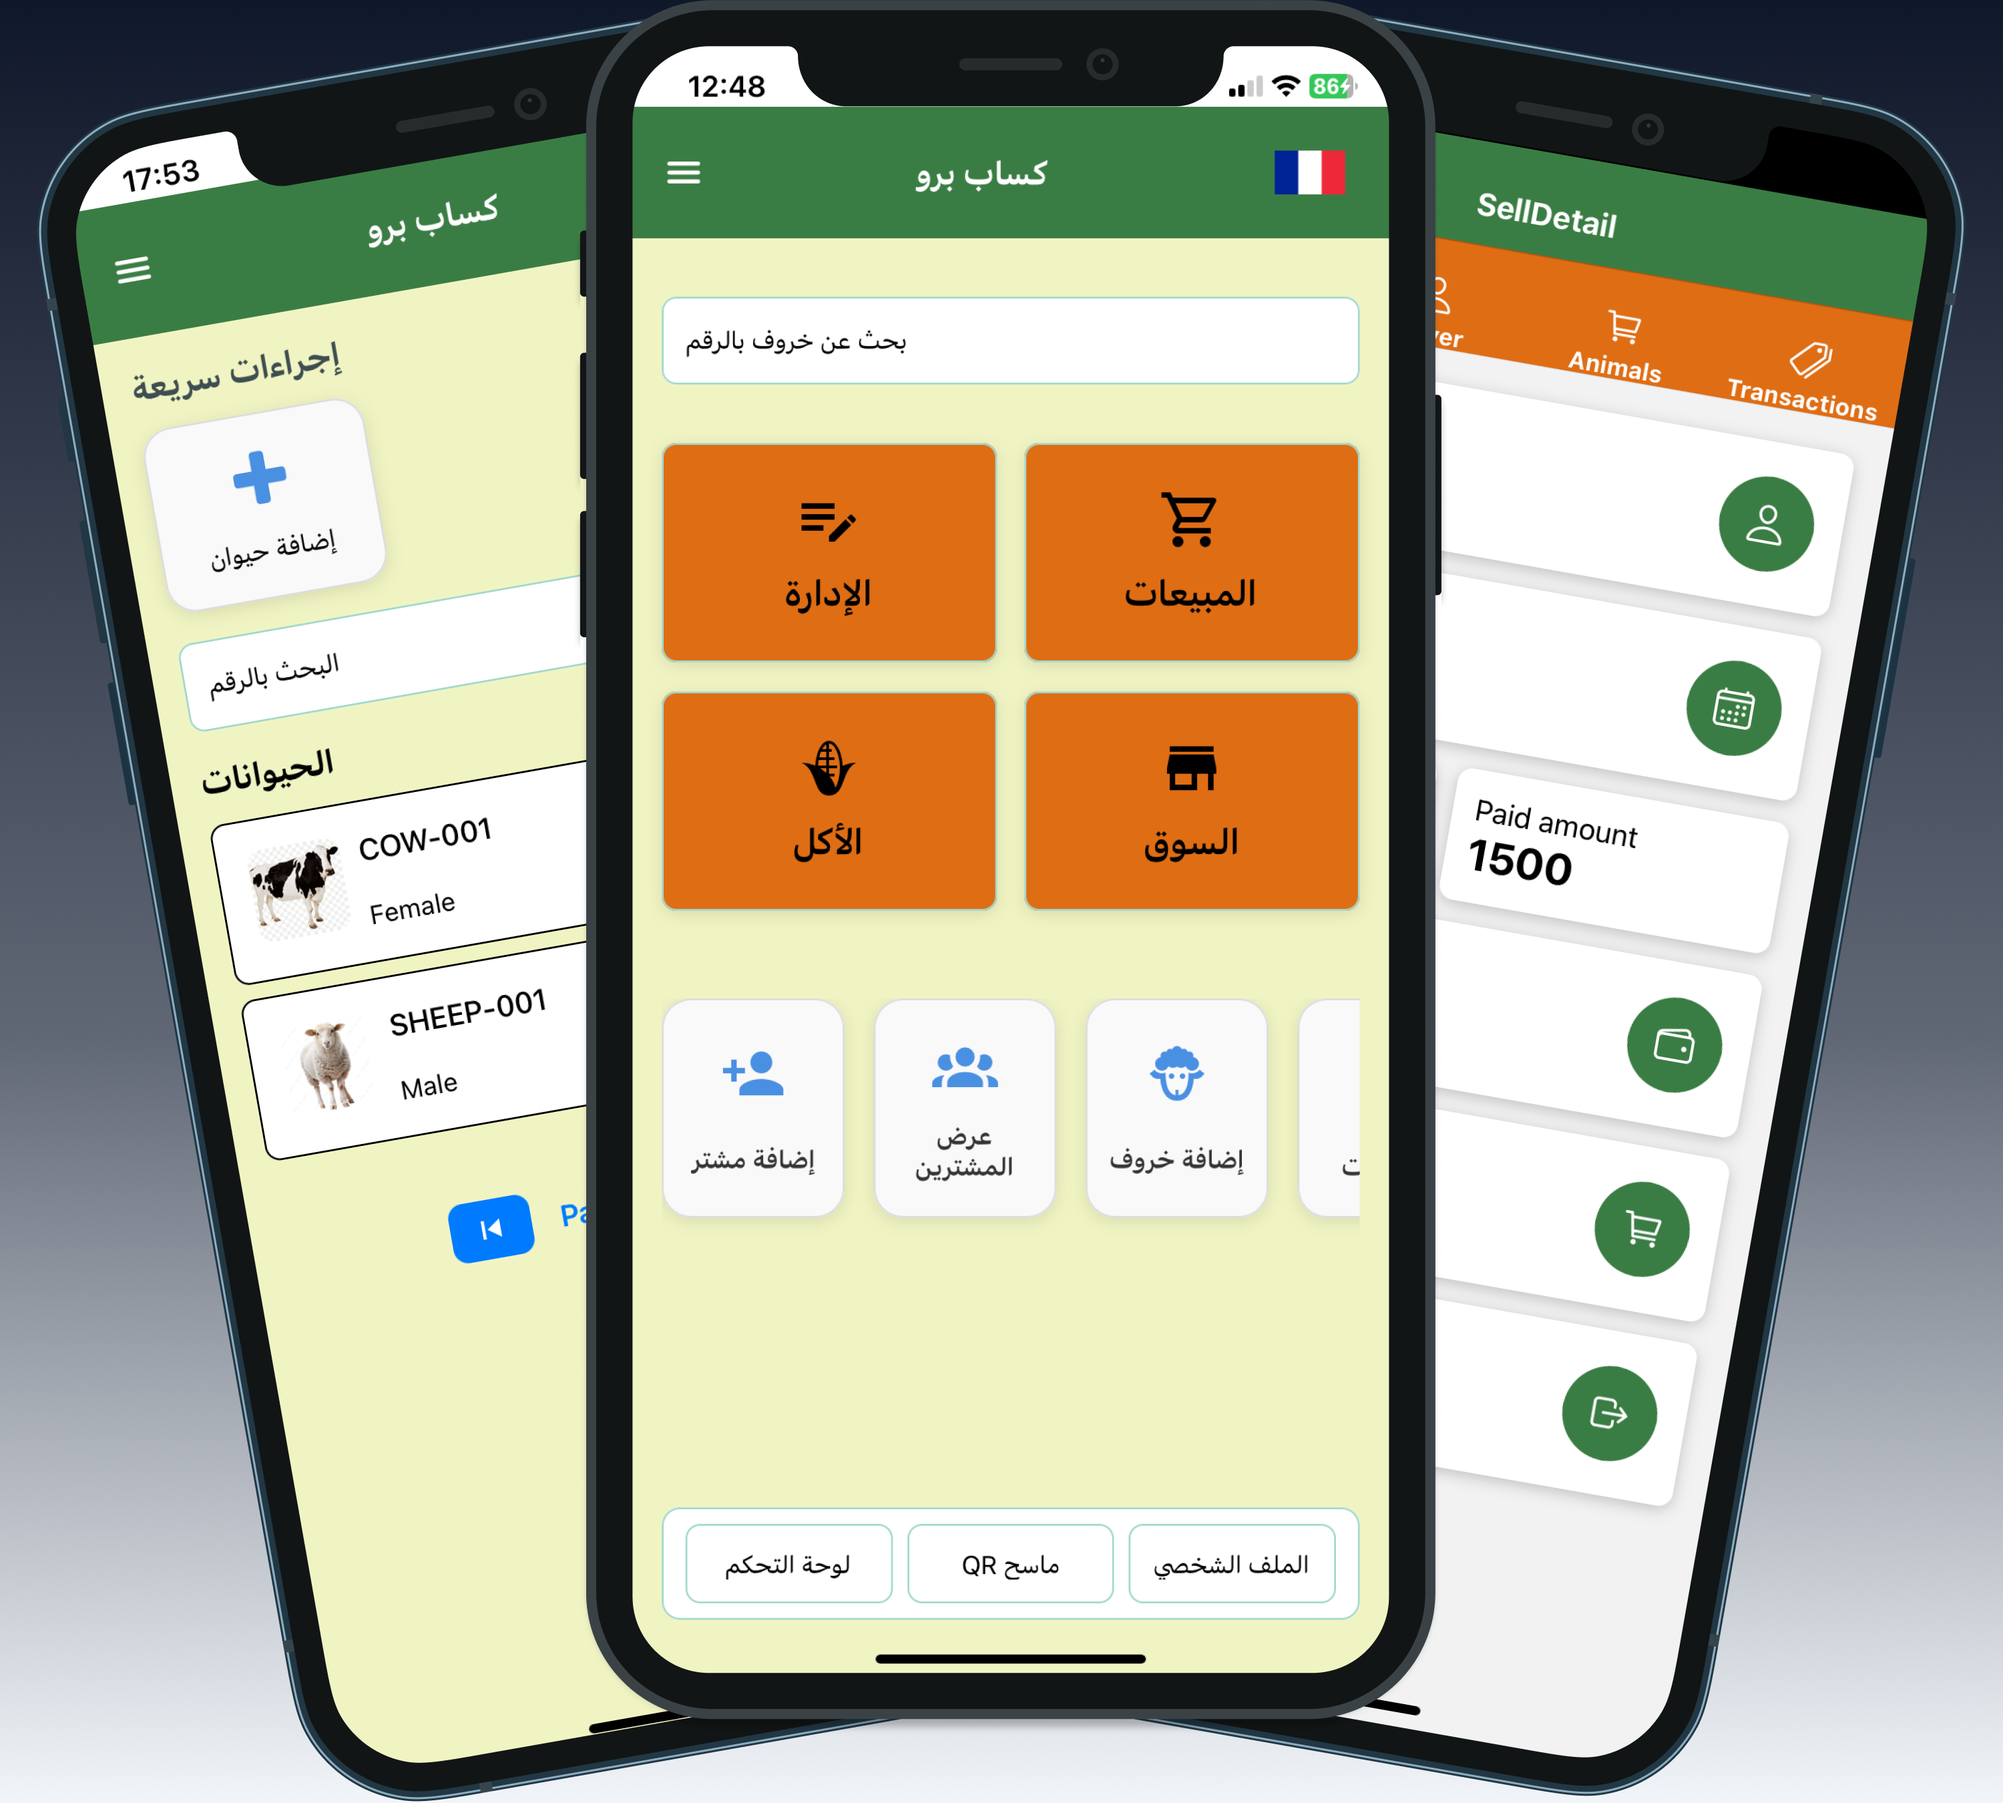
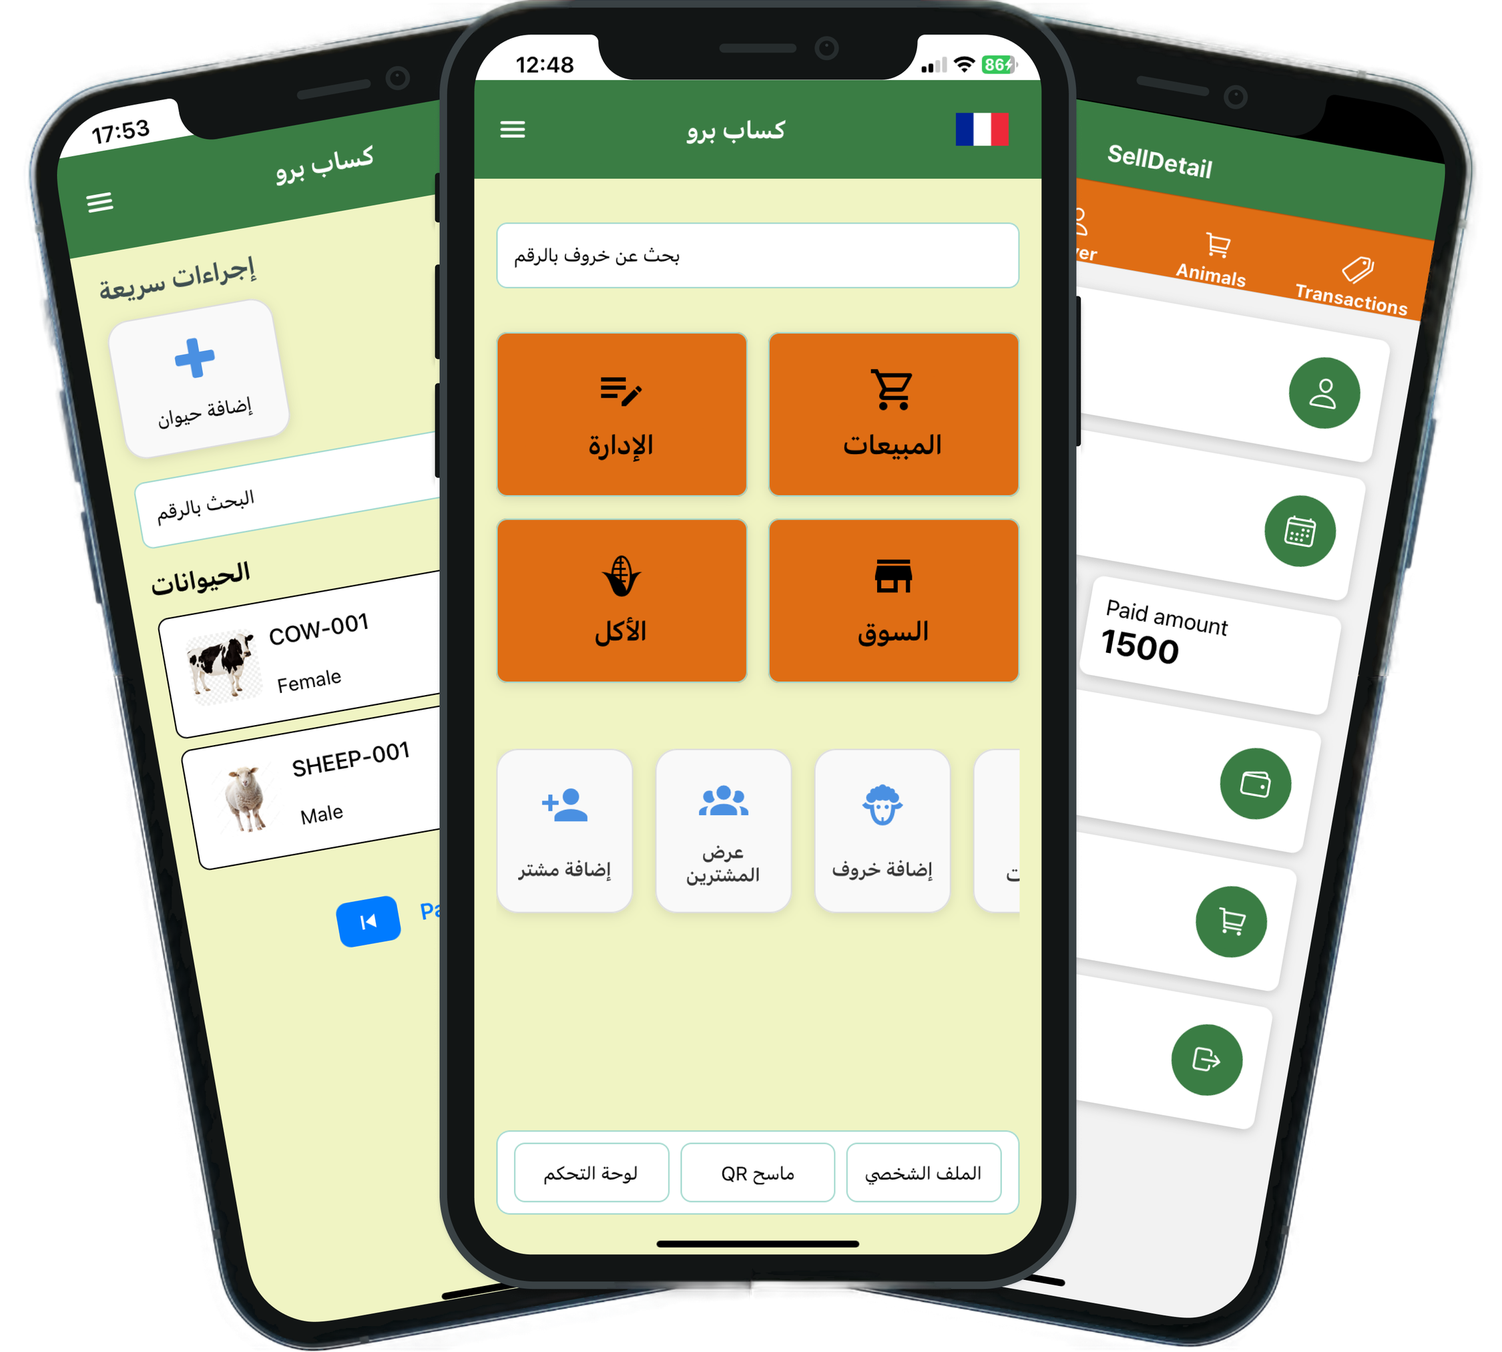
refactor: Update package structure and improve code organization; clear AsyncStorage on app load

diff --git a/web/src/components/Hero.tsx b/web/src/components/Hero.tsx
@@ -12,11 +12,10 @@ const textVariants = {
 const Hero = () => {
   return (
     <section className="relative flex flex-col lg:flex-row items-center justify-center lg:justify-between px-6 py-24 bg-gradient-to-b from-blue-50 to-white dark:from-gray-900 dark:to-gray-800 overflow-hidden">
-      
       <div className="absolute w-[450px] h-[450px] bg-blue-500/30 blur-[100px] rounded-full top-10 left-24 z-0 animate-pulse"></div>
       <div className="absolute w-[400px] h-[400px] bg-indigo-500/30 blur-[80px] rounded-full bottom-16 right-10 z-0 animate-pulse"></div>
 
-      <motion.div 
+      <motion.div
         className="max-w-2xl text-center lg:text-left flex-1"
         initial="hidden"
         animate="visible"
@@ -43,34 +42,40 @@ const Hero = () => {
           className="text-lg text-gray-700 dark:text-gray-300 mt-4 max-w-md leading-relaxed"
           variants={textVariants}
         >
-          KessabPro helps farmers track animals, manage sales, and streamline transactions with ease.
+          KessabPro helps farmers track animals, manage sales, and streamline
+          transactions with ease.
         </motion.p>
 
-        <motion.div 
+        <motion.div
           className="mt-6 flex flex-col sm:flex-row justify-center lg:justify-start gap-4"
           variants={textVariants}
         >
           <Button className="px-6 py-3 text-lg flex items-center justify-center gap-2 bg-blue-600 hover:bg-blue-700 text-white shadow-lg transition-transform transform hover:scale-105 hover:shadow-blue-500/50">
             Get the App <ArrowRight className="w-5 h-5" />
           </Button>
-          <Button variant="outline" className="px-6 py-3 text-lg border-gray-300 dark:border-gray-600 text-gray-800 dark:text-gray-200 hover:bg-gray-100 dark:hover:bg-gray-800 transition-transform transform hover:scale-105">
+          <Button
+            variant="outline"
+            className="px-6 py-3 text-lg border-gray-300 dark:border-gray-600 text-gray-800 dark:text-gray-200 hover:bg-gray-100 dark:hover:bg-gray-800 transition-transform transform hover:scale-105"
+          >
             Learn More
           </Button>
         </motion.div>
       </motion.div>
 
-      <div className="relative flex-1 flex justify-center lg:justify-end mt-12 lg:mt-0">
-        <motion.img
-          src={phoneMockup}
-          alt="KessabPro Mobile App Screens"
-          loading="lazy"
-          decoding="async"
-          className="w-[80%] max-w-[600px] rounded-lg shadow-2xl transition-transform transform hover:scale-105 hover:shadow-xl"
-          initial={{ opacity: 0, x: 50 }}
-          animate={{ opacity: 1, x: 0, transition: { duration: 1, ease: "easeOut" } }}
-          whileHover={{ rotate: 2, scale: 1.05 }}
-        />
-      </div>
+      <motion.img
+        src={phoneMockup}
+        alt="KessabPro Mobile App Screens"
+        loading="lazy"
+        decoding="async"
+        className="w-[80%] max-w-[600px] rounded-lg drop-shadow-[0_20px_40px_rgba(0,0,0,0.35)] transition-transform transform hover:scale-105 hover:drop-shadow-[0_30px_50px_rgba(0,0,0,0.4)]"
+        initial={{ opacity: 0, x: 50 }}
+        animate={{
+          opacity: 1,
+          x: 0,
+          transition: { duration: 1, ease: "easeOut" },
+        }}
+        whileHover={{ rotate: 2, scale: 1.05 }}
+      />
     </section>
   );
 };

diff --git a/mobile/App.js b/mobile/App.js
@@ -27,6 +27,7 @@ const AppWrapper = () => {
 
   useEffect(() => {
     const loadToken = async () => {
+      // AsyncStorage.clear();
       const token = await AsyncStorage.getItem("authToken");
       if (token) {
         dispatch(setToken(token));
